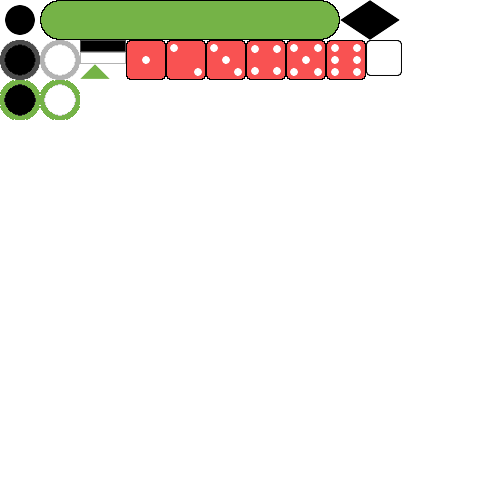
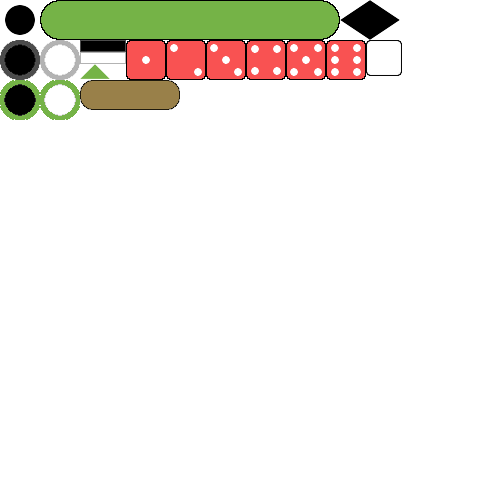
Gestion du début du jeu Humain/Humain

Changed region(s): [[0.15, 0.15, 0.36, 0.24]]

diff --git a/src/gui/board.c b/src/gui/board.c
@@ -7,8 +7,64 @@
 
 #include "cste.h"
 #include "library.h"
+#include "gui.h"
 #include "menu.h"
 #include "board.h"
+
+/* Procedure qui lance les des aleatoirement
+ * @param S_GameState* gameState
+ *     Etat du jeu
+ */
+void RollDice(S_GameState* gameState)
+{
+
+}
+
+/* Fonction de gestion des evenements du plateau
+ * @param SDL_Event* event
+ *     Evenements de la fenetre
+ * @param S_GameState* gameState
+ *     Etat du jeu
+ * @return E_BoardSelected
+ *     Eventuel bouton clique
+ */
+E_BoardSelected EventsBoard(SDL_Event* event, S_GameState* gameState)
+{
+    E_BoardSelected clicked = NONE_BOARD;
+
+    SDL_WaitEvent(event);
+
+    if (event->type == SDL_QUIT)
+        clicked = QUIT_BOARD;
+
+    switch (gameState->currentStage)
+    {
+        case WAITING_FIRST_ROLL:
+            switch(event->type)
+            {
+                case SDL_MOUSEBUTTONDOWN:
+                    // Bouton "Lancer"
+                    if (ClickRect(event, 293, 230, 100, 30))
+                        gameState->selected = ROLL;
+                    break;
+                case SDL_MOUSEBUTTONUP:
+                    gameState->selected = NONE_BOARD;
+
+                    // Bouton "Lancer"
+                    if (ClickRect(event, 293, 230, 100, 30))
+                        RollDice(gameState);
+                    break;
+            }
+            break;
+        default:
+            break;
+    }
+
+
+
+
+    return clicked;
+}
 
 /* Procedure d'initialisation de l'etat du jeu
  * @param S_GameState* gameState
@@ -18,6 +74,8 @@
  */
 void InitGameState(S_GameState* gameState, S_GameConfig gameConfig)
 {
+    int i;
+
     gameState->die1 = 0;
     gameState->die2 = 0;
 
@@ -26,6 +84,11 @@ void InitGameState(S_GameState* gameState, S_GameConfig gameConfig)
 
     gameState->gameConfig = gameConfig;
 
+    gameState->currentStage = WAITING_FIRST_ROLL;
+    gameState->currentZone = -1;
+
+    gameState->selected = NONE_BOARD;
+
     // On n'initialise pas le proprietaire du videau puisqu'il manque un etat "aucun joueur"
     // -> Verifier si la mise est superieure a 1 pour regarder le proprietaire
     gameState->stake = 1;
@@ -33,8 +96,6 @@ void InitGameState(S_GameState* gameState, S_GameConfig gameConfig)
     // On met a zero toutes les zones.
     // On n'initialise pas le joueur puisqu'il manque un etat "aucun joueur"
     // -> Toujours verifier que le nombre de pions est non nul avant de regarder le joueur
-    int i;
-
     for (i=0; i<28; i++)
         gameState->zones[i].nb_checkers = 0;
 
@@ -79,13 +140,14 @@ void DisplayCheckers(SDL_Surface* window, S_GameState gameState)
     SDL_Surface *overlays = IMG_Load(DESIGN_PATH "overlays.png");
     SDL_Rect clip, position;
 
-    clip.y = 40; clip.w = 40; clip.h = 40;
+    clip.w = 40; clip.h = 40;
 
     // Dessin des pions sur les fleches
     for (i=0; i<24; i++)
     {
         if (gameState.zones[i].nb_checkers > 0)
         {
+            clip.y = 40;
             clip.x = (gameState.zones[i].player == EPlayer1)? 0 : CHECKER_W;
             if (gameState.gameConfig.player1Color == WHITE)
                 clip.x = CHECKER_W - clip.x;
@@ -111,11 +173,18 @@ void DisplayCheckers(SDL_Surface* window, S_GameState gameState)
 
                 SDL_BlitSurface(overlays, &clip, window, &position);
             }
+
+            // Gestion de la selection des pions
+            if (gameState.currentZone == i)
+            {
+                clip.y = 80;
+                SDL_BlitSurface(overlays, &clip, window, &position);
+            }
         }
     }
 
     // Dessin des pions prisonniers
-    TTF_Font *font = TTF_OpenFont(DESIGN_PATH "numbers.ttf", 16);
+    TTF_Font *font = TTF_OpenFont(DESIGN_PATH "board.ttf", 16);
     SDL_Color black = {0,0,0}, white = {255,255,255};
     char nb_txt[4] = {'\0'};
     SDL_Surface *nb = NULL;
@@ -180,25 +249,62 @@ void DisplayCheckers(SDL_Surface* window, S_GameState gameState)
     }
 
     // Dessin du videau
-    clip.x = 366; clip.y = 40; position.x = 324; clip.w = 36; clip.h = 36;
+    if (gameState.currentStage != WAITING_FIRST_ROLL)
+    {
+        clip.x = 366; clip.y = 40; position.x = 324; clip.w = 36; clip.h = 36;
 
-    if (gameState.stake == 1)
-        position.y = 227;
-    else if (gameState.cubeOwner == EPlayer1)
-        position.y = 90;
-    else
-        position.y = 364;
+        if (gameState.stake == 1)
+            position.y = 227;
+        else if (gameState.cubeOwner == EPlayer1)
+            position.y = 90;
+        else
+            position.y = 364;
 
-    SDL_BlitSurface(overlays, &clip, window, &position);
+        SDL_BlitSurface(overlays, &clip, window, &position);
 
-    sprintf(nb_txt, "%i", gameState.stake); nb_txt[3] = '\0';
-    nb = TTF_RenderText_Blended(font, nb_txt, black);
-    position.x = 342 - nb->w/2; position.y += 18 - nb->h/2;
-    SDL_BlitSurface(nb, NULL, window, &position);
-    SDL_FreeSurface(nb);
-
+        sprintf(nb_txt, "%i", gameState.stake); nb_txt[3] = '\0';
+        nb = TTF_RenderText_Blended(font, nb_txt, black);
+        position.x = 342 - nb->w/2; position.y += 18 - nb->h/2;
+        SDL_BlitSurface(nb, NULL, window, &position);
+        SDL_FreeSurface(nb);
+    }
 
     TTF_CloseFont(font);
+    SDL_FreeSurface(overlays);
+}
+
+/* Procedure pour afficher les boutons et popup
+ * @param SDL_Surface* window
+ *     Surface de la fenetre
+ * @param S_GameState gameState
+ *     Etat du jeu
+ */
+void DisplayBoardOverlays(SDL_Surface* window, S_GameState gameState)
+{
+    SDL_Surface *overlays = IMG_Load(DESIGN_PATH "overlays.png");
+    SDL_Rect clip, position;
+    TTF_Font *font = TTF_OpenFont(DESIGN_PATH "board.ttf", 20);
+    SDL_Color black = {0,0,0}, selectColor = {200, 200, 100};
+    SDL_Surface *txtRoll;
+
+
+    switch (gameState.currentStage)
+    {
+        case WAITING_FIRST_ROLL:
+            clip.x = 80; clip.y = 80; clip.w = 100; clip.h = 30;
+            position.x = CENTER_X - clip.w/2; position.y = CENTER_Y - clip.h/2;
+            SDL_BlitSurface(overlays, &clip, window, &position);
+
+            txtRoll = TTF_RenderText_Blended(font, "Lancer", (gameState.selected == ROLL)? selectColor : black);
+            position.x = CENTER_X - txtRoll->w/2; position.y = CENTER_Y - txtRoll->h/2;
+            SDL_BlitSurface(txtRoll, NULL, window, &position);
+            break;
+        default:
+            break;
+    }
+
+    TTF_CloseFont(font);
+    SDL_FreeSurface(txtRoll);
     SDL_FreeSurface(overlays);
 }
 
@@ -225,8 +331,8 @@ int DisplayBoard(SDL_Surface* window, E_GameMode gameMode, S_AIFunctions* aiFunc
     position.x = 0; position.y = 0;
 
     SDL_BlitSurface(board_bg, NULL, window, &position);
-
     DisplayCheckers(window, gameState);
+    DisplayBoardOverlays(window, gameState);
     //DisplayScore(window, gameConfig);
 
     int quit = 0, finish = 0;
@@ -240,18 +346,20 @@ int DisplayBoard(SDL_Surface* window, E_GameMode gameMode, S_AIFunctions* aiFunc
             event.type == SDL_KEYUP)
         {
             SDL_BlitSurface(board_bg, NULL, window, &position);
+            DisplayCheckers(window, gameState);
+            DisplayBoardOverlays(window, gameState);
+            //DisplayScore(window, gameConfig);
         }
 
         SDL_Flip(window);
 
         // Gestion des evenements
-        SDL_WaitEvent(&event);
-        switch(event.type)
+        E_MenuSelected button = EventsBoard(&event, &gameState);
+
+        if (button == QUIT_BOARD)
         {
-            case SDL_QUIT:
-                finish = 1;
-                quit = 1;
-                break;
+            finish = 1;
+            quit = 1;
         }
     }
 

diff --git a/src/gui/board.h b/src/gui/board.h
@@ -1,6 +1,26 @@
 #ifndef _BOARD
 #define _BOARD
 
+// Enumeration des etapes du jeu
+typedef enum
+{
+    WAITING_FIRST_ROLL,
+    FIRST_ROLL_POPUP,
+    SELECT_ZONE_SRC,
+    SELECT_ZONE_DST,
+    WAITING_ROLL_DBL,
+    DOUBLE_POPUP,
+    WAITING_ROLL
+} E_Stage;
+
+// Texte du plateau selectionne
+typedef enum
+{
+    ROLL,
+    NONE_BOARD,
+    QUIT_BOARD
+} E_BoardSelected;
+
 // GameState personnalise, reprennant celle de l'interface en rajoutant les attributs manquants
 typedef struct
 {
@@ -19,12 +39,20 @@ typedef struct
 
     S_GameConfig gameConfig;
 
+    E_Stage currentStage;
+    EPlayer currentPlayer;
+    unsigned int currentZone;
+
+    E_BoardSelected selected;
 } S_GameState;
 
 void InitGameState(S_GameState* gameState, S_GameConfig gameConfig);
-
 void DisplayCheckers(SDL_Surface* window, S_GameState gameState);
+void DisplayBoardOverlays(SDL_Surface* window, S_GameState gameState);
 
 int DisplayBoard(SDL_Surface* window, E_GameMode gameMode, S_AIFunctions* aiFunctions, S_GameConfig gameConfig);
 
+E_BoardSelected EventsBoard(SDL_Event* event, S_GameState* gameState);
+
+void RollDice(S_GameState* gameState);
 #endif

diff --git a/src/gui/cste.h b/src/gui/cste.h
@@ -6,6 +6,9 @@
 #define WIDTH 758
 #define HEIGHT 536
 
+#define CENTER_X 343
+#define CENTER_Y 245
+
 #define MIN_POINTS 1
 #define MAX_POINTS 15
 
